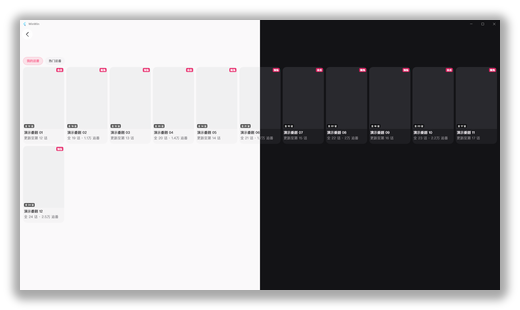
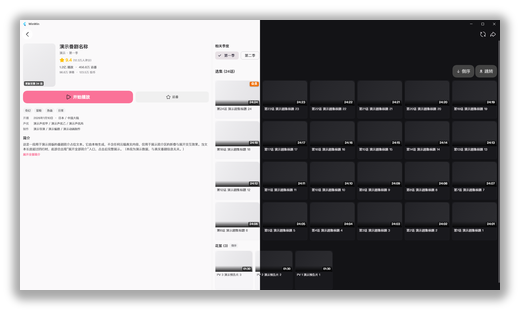
docs(readme): 番剧展示图由列表页改为番剧详情页（浅左深右双主题）
- 04-bangumi.png 重出图：应用内截帧 BangumiDetailPage 演示态，浅色左半 + 深色右半拼接，1920x1080 → 480x270 → 烘焙阴影 520x310
- README 番剧单元格标题/alt/说明同步为详情页要素（海报/评分/追番 + 相关季度/选集/花絮）
- 复盘追加 §10：临时补丁与 Hive 设置均已还原，双编译与 analyze 通过

diff --git a/docs/README展示图生成复盘-2026-10-25.md b/docs/README展示图生成复盘-2026-10-25.md
@@ -197,3 +197,48 @@ GitHub 渲染 README 时会**剥离 `style` 属性等 CSS**（markup 消毒走 `
 ### 9.7 总结
 
 演示区从「散排图片 + 汇总说明」改为「原生表格网格 + 逐图标题 + 烘焙卡片阴影」：网格由 `td` 边框与等宽单元格保证对齐，阴影因 GitHub 禁止 CSS 而改为烘焙进 PNG（任何渲染环境一致），逐图标题替代原来的汇总单行。仅动 README 与 5 张 PNG，不涉及代码与构建。
+
+---
+
+## 10. 追加（2026-10-26）：番剧展示图改为「番剧详情页」
+
+### 10.1 现象与需求
+
+原 `04-bangumi.png` 呈现的是番剧**列表页**（`PgcPage`：我的追番 / 热门追番胶囊 + 番剧卡片网格）。用户要求改为**番剧详情页**（`BangumiDetailPage`），并按既定「浅色左半 + 深色右半」双主题拼接口径重新出图。
+
+### 10.2 定因与约束
+
+1. 展示口径沿用 §1：应用内截帧 1920×1080、宽屏（≥900 左侧导航断点）、浅左半 + 深右半、缩略图 480×270 + 烘焙阴影。
+2. 番剧详情页已具备演示模式适配：`_demoDetail()` 本地占位（24 话 + 3 条花絮 + 两季），`NetworkImgLayer` 演示态直接输出灰块，**不发任何网络请求**，可安全离线出图。
+3. 直接 `Navigator.push(BangumiDetailPage())`，不依赖「列表页 → 点卡片」的演示跳转，出图结果确定。
+
+### 10.3 方案与改动面
+
+- **临时补丁 `lib/main.dart`（跑完已还原）**：`WINWIN_AUTOSHOT=1` 时根节点改为 `Align → UnconstrainedBox → RepaintBoundary → SizedBox(1920×1080)`；巡航逻辑先浅色后深色，各 push 详情页 → `toImage(pixelRatio: 1.0)` → 落盘 → `pop` → `exit(0)`。
+- **合成脚本** `scratch/screenshot-2026-10-26/compose_bangumi_detail.py`（gitignored）：浅色取左半 + 深色取右半 → 1920×1080 → LANCZOS 缩至 480×270 → 复用 `bake_shadow.bake` 烘焙静态阴影 → 520×310。
+- **README** 番剧单元格：`alt` 与标题改「番剧详情页」，说明改为「海报 / 评分与追番数据、开始播放与追番；右侧相关季度切换、选集网格与花絮特典」。
+- 其余 4 张展示图与页面无改动。
+
+### 10.4 验证
+
+- `dart analyze lib/main.dart`：No issues found。
+- `flutter build windows --debug`：✅ `build\windows\x64\runner\Debug\winwin.exe`；`--release`：✅ `build\windows\x64\runner\Release\winwin.exe`。
+- 巡航自证 `_raw/shot_progress_bangumi_detail.txt`：`OK light_bangumi_detail 1920x1080` / `OK dark_bangumi_detail 1920x1080` / `autoshot done`，无 ERR/FATAL。
+- 成图核验：宽屏双栏（左 40% 海报 / 评分 / 播放与追番按钮 / 元信息 / 简介；右 60% 相关季度 / 选集 24 话 / 花絮 3 条），中缝左右明暗分界；成品 520×310，阴影参数与其余 4 张一致。
+- 工作区复核：`lib/main.dart` 已还原（仅 README + `04-bangumi.png` 变更）；Hive 还原 `themeMode=2`（跟随系统）/ `demoMode=true`。
+
+### 10.5 踩坑
+
+1. `dart:io` 的 `FileMode` 必须显式加入 `show` 列表，否则 `FileMode.append` 报 `undefined_identifier`。
+2. 巡航落盘若直接放 `assets/screenshots/_raw`，会变成未跟踪文件污染提交；出图后整目录移入 `scratch/screenshot-2026-10-26/_raw/` 留档。
+3. 合成脚本对原始截图做 `1920×1080` 断言，防止窗口尺寸漂移时静默产出错比例图。
+
+### 10.6 提交与回滚
+
+- 快照基准：改动前工作区干净，回滚点 **`67d6803`**（无未跟踪文件，`git stash create` 为空；`refs/snapshots/latest` 仍指向 10-23 的 `bf5e160`）。
+- 回滚：`git reset --hard 67d6803`（会一并撤销本轮 README、`04-bangumi.png` 与本追加章节）。
+- 提交：README + `04-bangumi.png` + 本追加章节同批提交推送。
+
+### 10.7 总结
+
+番剧展示图从「列表页」换成「详情页」：复用既有演示模式占位数据与内部截帧管线产出浅/深 1920×1080，按左浅右深拼接、1/4 缩略并烘焙同参阴影，README 文案同步为详情页要素；临时补丁与用户设置均已还原，仓库仅新增 README 文案与一张 PNG 变更。

diff --git a/README.md b/README.md
@@ -51,8 +51,8 @@
   </tr>
   <tr>
     <td width="50%" align="center" valign="top">
-      <a href="assets/screenshots/04-bangumi.png"><img src="assets/screenshots/04-bangumi.png" alt="番剧页" width="100%"></a><br>
-      <sub><b>番剧页</b>：索引筛选条 + 番剧卡片网格（集数与播放量）。</sub>
+      <a href="assets/screenshots/04-bangumi.png"><img src="assets/screenshots/04-bangumi.png" alt="番剧详情页" width="100%"></a><br>
+      <sub><b>番剧详情页</b>：海报 / 评分与追番数据、开始播放与追番；右侧相关季度切换、选集网格与花絮特典。</sub>
     </td>
     <td width="50%" align="center" valign="top">
       <a href="assets/screenshots/05-setting.png"><img src="assets/screenshots/05-setting.png" alt="设置页" width="100%"></a><br>
